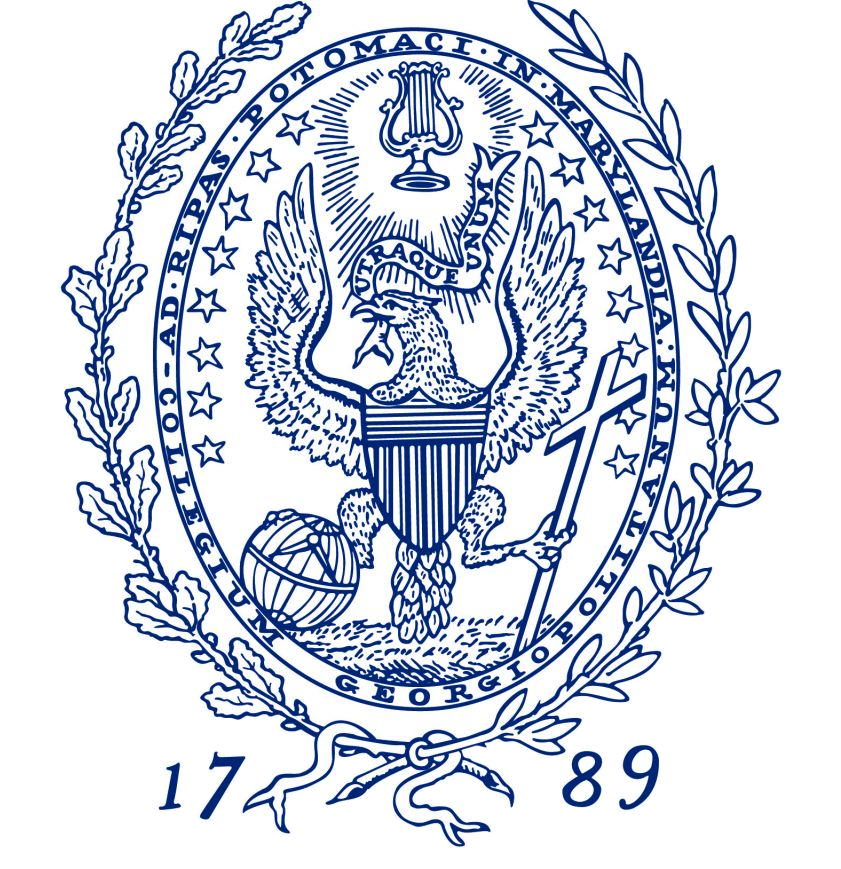
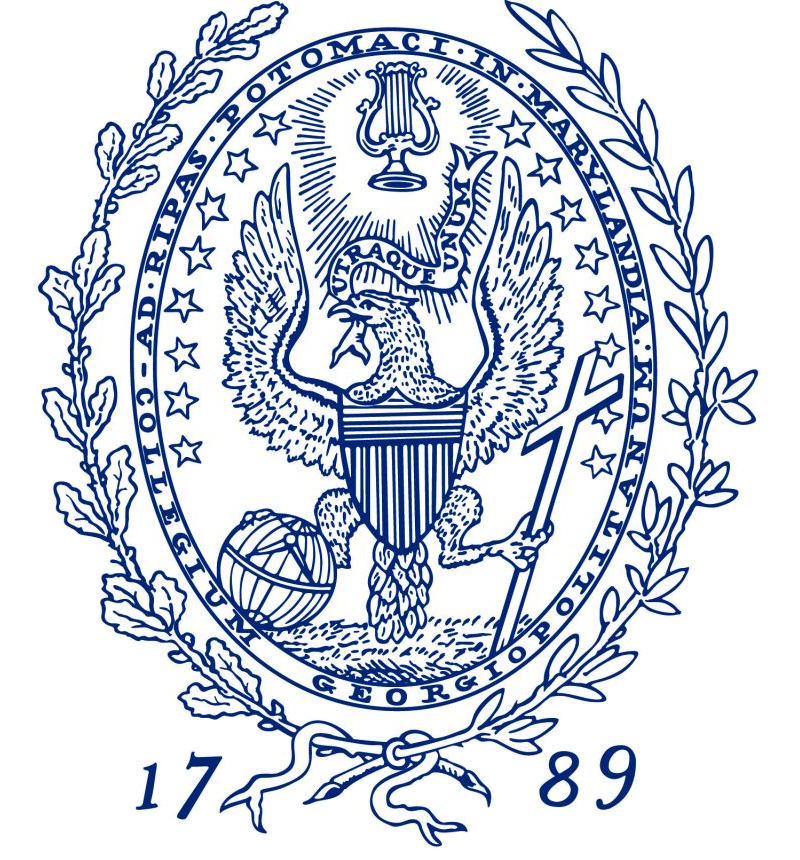
-

diff --git a/index.html b/index.html
@@ -8,7 +8,7 @@ layout: default
 
  <table style="width:100%">
   <tr>
-    <td><img src="bostoncollege.png" alt="Boston College" width="500" height="500"></td>
+    <td><img src="bostoncollege.png" alt="Boston College" width="100" height="100"></td>
     <td>
     	<p>
     		<a href="https://www.bc.edu/">Boston College</a> <br>
@@ -19,7 +19,7 @@ layout: default
     </td>
   </tr>
   <tr>
-    <td><img src="tufts.png" alt="Tufts University" width="300" height="1000"></td>
+    <td><img src="tufts.png" alt="Tufts University" width="100" height="100"></td>
     <td>
     	<p>
     		<a href="https://www.tufts.edu/">Tufts University</a> <br>
@@ -29,6 +29,7 @@ layout: default
     </td>
   </tr>
   <tr>
+  	 <!-- 800 x 860-->
     <td><img src="georgetown.png" alt="Georgetown University"></td>
     <td>
     	<p>
